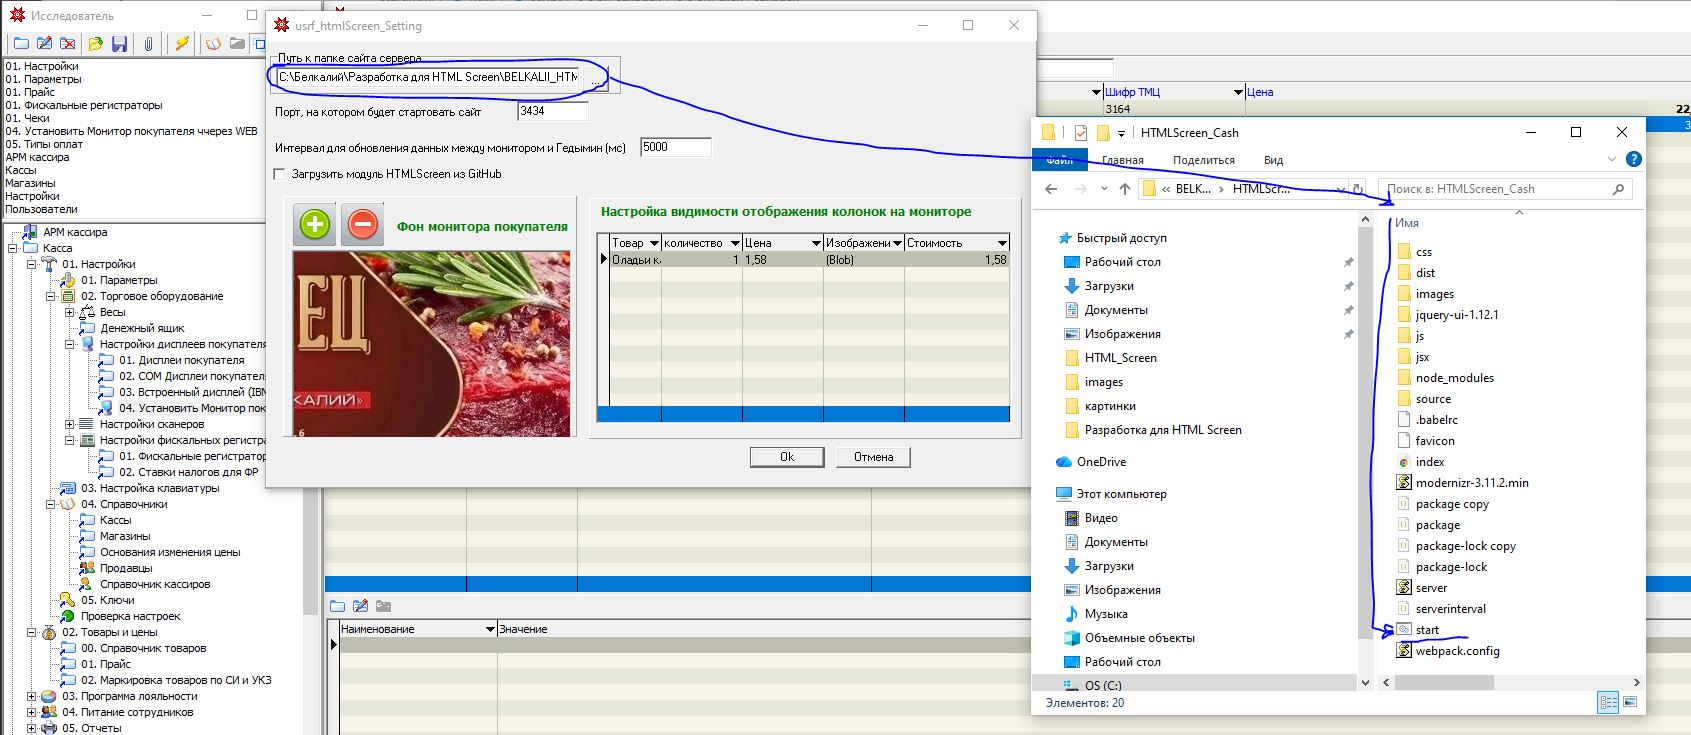
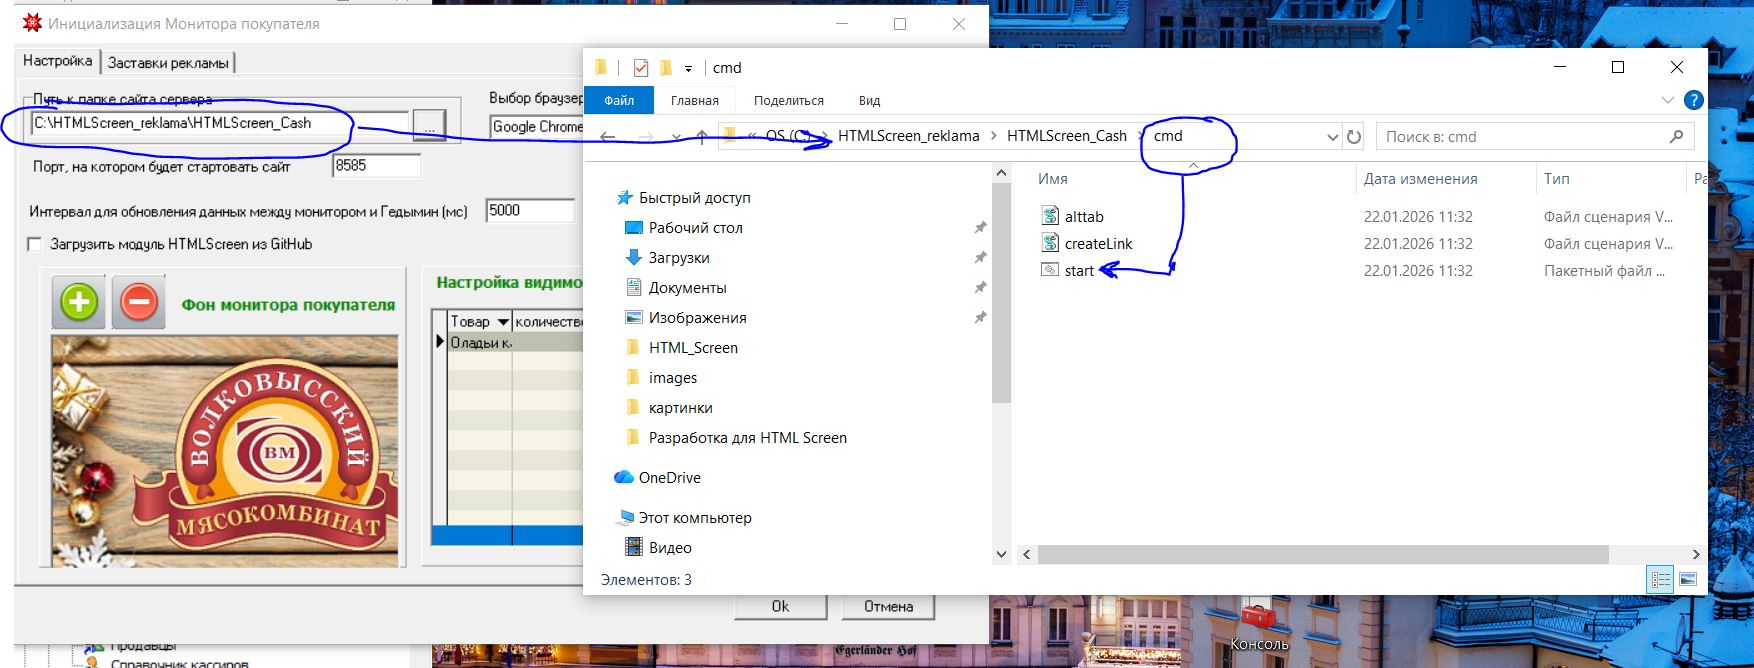
instruction finis

diff --git a/enatherDisplay.html b/enatherDisplay.html
@@ -13,12 +13,9 @@
     <article class="CashCheck">
     Если вы хотите чтобы чек отображался на удаленном экране, который имеет встроенный браузер и сетевую карту, <br>
     при этом сам комплекс (Папка в которой располагается программа) находится на другом ПК, например, ПК кассы, <br>
-    то в папке, где установлен комплекс находим файл <strong>start.bat</strong> и копируем его на удаленный монитор. <br>
-    Можно создать ярлык на рабочем столе к файлу start.bat и настроить запуск его в автозагрузке.
-    <footer class="addition_info">Расположение файла start.bat, который можно скопировать и загрузить <br>
-      на любой ПК смарт Телевизор, планшет, находящийся в локальной сети с компьютером, на котором работает комплекс  WEB Html Server.
-      <figure><img src="./images/ОкноНастройки Монитора4.JPG" alt="синхронизируем ПИ в Гедымин" width="98%" height="90%"></figure>
-    </footer>
+    то в папке, где установлен комплекс находим файл <strong>.../cmd/start.bat</strong> и копируем его на удаленный монитор. <br>
+    Можно создать ярлык на рабочем столе удаленного Монитора к файлу start.bat и настроить запуск его в автозагрузке.
+    <figure><img src="./images/ОкноНастройки Монитора4.JPG" alt="синхронизируем ПИ в Гедымин" width="98%" height="90%"></figure>    
   </article>  
 </body>
 </html>

diff --git a/secondDisplay.html b/secondDisplay.html
@@ -26,11 +26,11 @@
         </ul>        
       </section>
       <section>
-        После запуска АРМ Кассира на рабочем столе (основного монитора) создается ярлык <strong>CustomDisplay</strong><br>        
+        После запуска АРМ Кассира на рабочем столе (основного монитора) создается ярлык <strong>CustomDisplay</strong><br>
+        Запуск браузера с монитором на экране отрабатывает по данному ярлыку, в котором автоматически создаются настройки http сайта.
         <figure>
         <img src="./images/Ярлык.JPG"  width="98%" height="90%">
-      </figure>
-      <strong>Этот ярлык с помощью мышки также перетащите на второй монитор!</strong>
+      </figure>      
       </section>
       <section>
         Таким образом, если вы откроете браузер, он должен будет открыт на втором мониторе <br>
